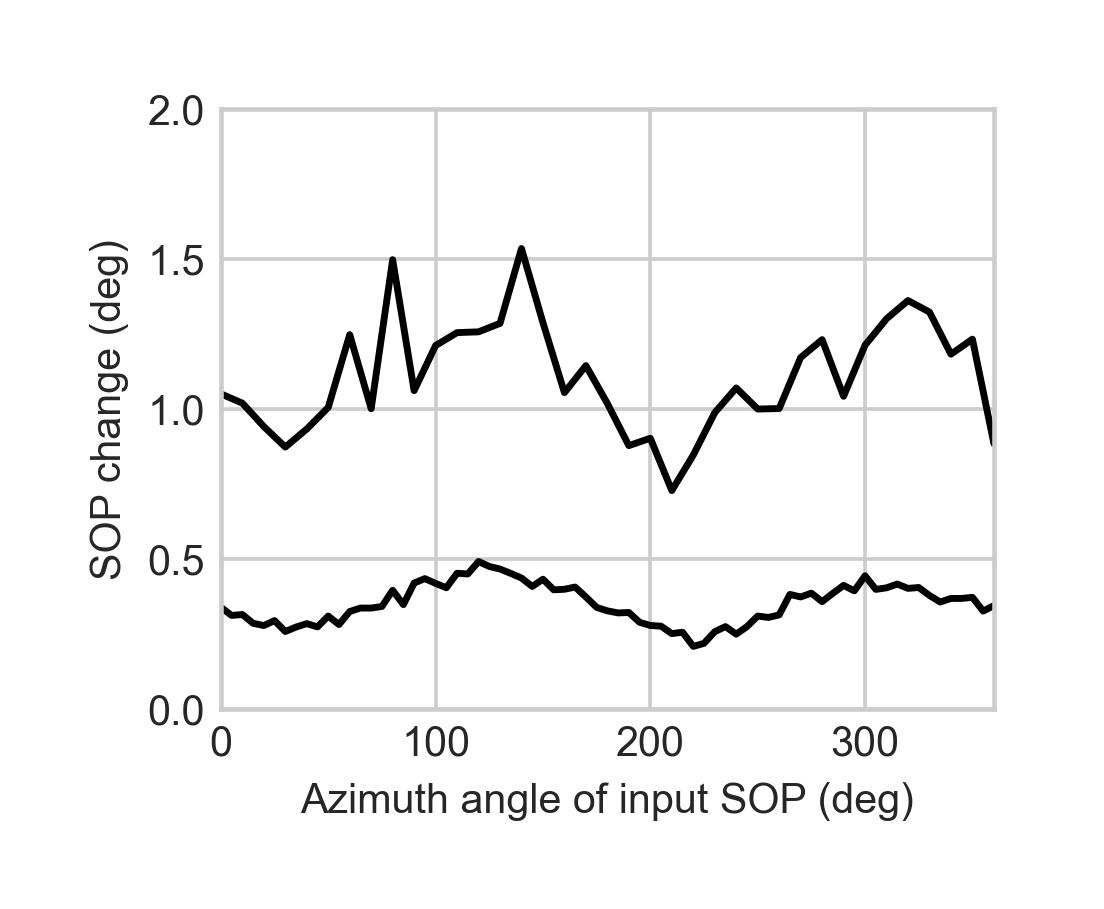
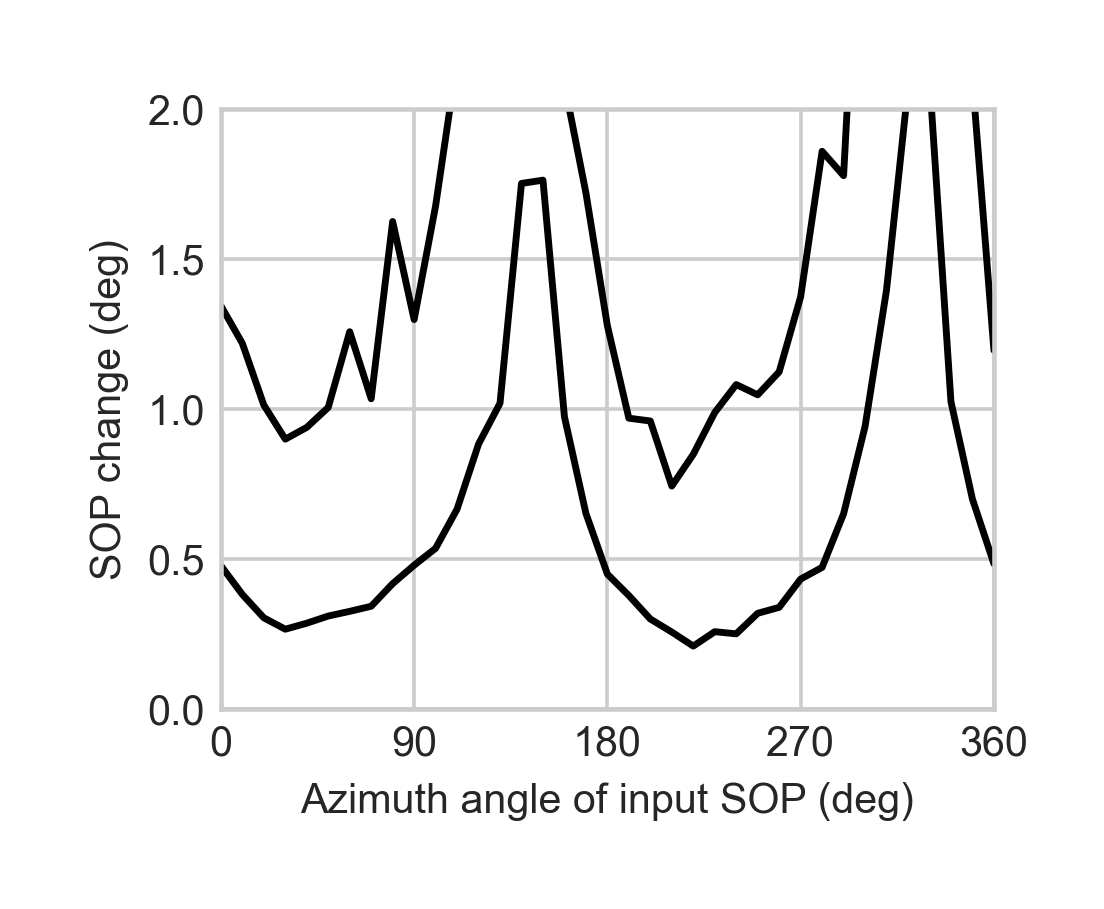
EDFA data

diff --git a/JournalPaper/Figure6_input_SOP_dependence2.py b/JournalPaper/Figure6_input_SOP_dependence2.py
@@ -12,6 +12,8 @@ from numpy.linalg import norm, eig, matrix_power
 import matplotlib.ticker
 from matplotlib.ticker import (MaxNLocator,
                                FormatStrFormatter, ScalarFormatter)
+from matplotlib.ticker import (AutoMinorLocator, MultipleLocator)
+
 from scipy.interpolate import interp1d
 import matplotlib.transforms
 import matplotlib.pylab as pl
@@ -258,9 +260,20 @@ if __name__ == '__main__':
     fig, ax = plt.subplots(figsize=(8.5 / 2.54, 7 / 2.54))
     plt.subplots_adjust(left=0.2, bottom=0.22)
 
+    # SOP change in chi, psi
+
+    fig2, ax2 = plt.subplots(2, figsize=(8 / 2.54, 7 / 2.54))
+    fig2.set_dpi(91.79)  # DPI of My office monitor
+    plt.subplots_adjust(left=0.27, bottom=0.22, right=0.96, top=0.81, wspace=0.4, hspace=0.0)
+
+    fig2_2, ax2_2 = plt.subplots(2, figsize=(8 / 2.54, 7 / 2.54))
+    fig2_2.set_dpi(91.79)  # DPI of My office monitor
+    plt.subplots_adjust(left=0.27, bottom=0.22, right=0.96, top=0.81, wspace=0.4, hspace=0.0)
+
     # fig, ax = plt.subplots(figsize=(6, 5))
-    ax2, fig2 = PS3('0')
-    fig3 = PS.PS5(0.5)
+    # ax2, fig2 = PS3('0')
+    opacity = 0.9
+    fig3 = PS.PS5(0.9)
 
     for mm in range(2):
         # Folder select
@@ -274,6 +287,8 @@ if __name__ == '__main__':
 
         try:
             file_list = sorted(file_list, key=lambda x: int(os.path.splitext(x)[0].split('_')[0][2:]))
+            file_list = file_list[::2] if mm == 1 else file_list
+
             # ang_SOP = arange(0, 361, 5)
             ang_SOP = np.array([int(os.path.splitext(x)[0].split('_')[0][2:]) for x in file_list])
 
@@ -292,24 +307,29 @@ if __name__ == '__main__':
         min_azi_V = np.ones(len(file_list))
         alpha = np.ones(len(file_list))
 
+        ############################################################
+        ## define a color and a color scale for draw poincare sphere
+
+
         # brg = matplotlib_to_plotly(pl.cm.brg, len(file_list))
         # colors = pl.cm.brg(np.linspace(0, 1, len(file_list)))
 
-        hsv = matplotlib_to_plotly(pl.cm.hsv, len(file_list))
+        # plotly style color palette prepared for each input SOPs from matplotlib
         colors_hsv = pl.cm.hsv(np.linspace(0, 1, len(file_list)))
+        # ployly style color scale converted from matplotlib for plotting color scale on the poincare sphere
+        hsv = matplotlib_to_plotly(pl.cm.hsv, len(file_list))
 
+        # color palette prepared for each input SOPs with plotly library
         colors_IceFire_tmp = px.colors.sample_colorscale("IceFire", [n / (len(file_list) - 1) for n in range(len(file_list))])
         colors_IceFire = cm_to_rgba_tuple(colors_IceFire_tmp)
 
-        print(colors_hsv)
-        print(colors_IceFire)
-        #print(brg)
+        ############################################################
+        ############################################################
 
         for nn in range(int(len(file_list))):
             fn2 = path_dir + "//" + file_list[nn]
             print(fn2)
             count = 0
-            cstm_color = ['b', 'g', 'r', 'c', 'm', 'y', 'k', 'w']
 
             #    fn2 = path_dir + "//10Hz_edited.txt"
             data = pd.read_table(fn2, delimiter=r"\s+")
@@ -318,6 +338,40 @@ if __name__ == '__main__':
             S1 = pd.to_numeric(data['S1'])
             S2 = pd.to_numeric(data['S2'])
             S3 = pd.to_numeric(data['S3'])
+
+            # ######################################################################################
+            # Plotting the Stokes points on the poincare sphere using PLOTLY
+
+            fig3.add_scatter3d(x=S1[::10], y=S2[::10], z=S3[::10], mode="markers",
+                               marker=dict(size=3, opacity=1,
+                                           color=rgb2hex(colors_hsv[nn] if mm==0 else colors_IceFire[nn])),
+                               name='F1')
+
+            colorbar_param = dict(lenmode='fraction', len=0.75, thickness=10, tickfont=dict(size=20),
+                                  tickvals=np.linspace(0, len(file_list), 5),
+                                  ticktext=['LHP', 'L45P', 'LVP', 'L135P', 'LHP'],
+                                  # title='Azimuth angle',
+                                  outlinewidth=1,
+                                  x=0.2 if mm == 0 else 0.1)
+            colorbar_trace = go.Scatter(x=[None], y=[None],
+                                        mode='markers',
+                                        marker=dict(
+                                            colorscale=hsv if mm == 0 else 'IceFire',
+                                            showscale=True,
+                                            cmin=0,
+                                            cmax=len(file_list),
+                                            colorbar=colorbar_param
+                                        ),
+                                        hoverinfo='none'
+                                        )
+            fig3.add_trace(colorbar_trace)
+            fig3['layout']['paper_bgcolor'] = 'rgba(0,0,0,0)'
+            fig3['layout']['plot_bgcolor'] = 'rgba(0,0,0,0)'
+            fig3.update_yaxes(showticklabels=False, showgrid=False, visible=False)
+            fig3.update_xaxes(showticklabels=False, showgrid=False, visible=False)
+
+            # ######################################################################################
+            # ######################################################################################
 
             Sn = np.ones((len(S0)))
 
@@ -337,20 +391,8 @@ if __name__ == '__main__':
             new_S3[0:nwindow] = new_S3[nwindow]
 
             SS = np.vstack((Sn, new_S1, new_S2, new_S3))
-
-            # SS = np.vstack((Sn[1000:], new_S1[1000:], new_S2[1000:], new_S3[1000:]))
             Out = Sv.from_matrix(SS.T)
-
-            # draw_stokes_points(fig2[0], Out, kind='line', color_line=cstm_color[nn % 8])
-
-            Out = basistonormal(Out)
-            # draw_stokes_points(fig3[0], Out, kind='line', color_line=cstm_color[nn % 8])
-            ax2.plot(S1, S2, S3, color='c', marker='o', markersize=4, alpha=1.0, linewidth=0, zorder=3)
-
-            fig3.add_scatter3d(x=S1[::10], y=S2[::10], z=S3[::10], mode="markers",
-                               marker=dict(size=3, opacity=1,
-                                           color=rgb2hex(colors_hsv[nn] if mm==0 else colors_IceFire[nn])),
-                               name='F1')
+            #Out = basistonormal(Out)
             azi_V = Out.parameters.azimuth()
             ellip_V = Out.parameters.ellipticity_angle()
             diff_azi_V[nn] = azi_V.max() - azi_V.min()
@@ -364,15 +406,9 @@ if __name__ == '__main__':
             min_azi_V[nn] = azi_V.min() / cos(ellip_V[0])
 
             alpha[nn] = sqrt(diff_azi_V[nn] ** 2 + diff_ellip_V[nn] ** 2)
-            # print(alpha[nn])
 
-            if alpha[nn] > 0.1:
-                print(fn2)
-                print(diff_azi_V[nn])
-                print(diff_ellip_V[nn])
-                print(cos(ellip_V[0]))
-
-            if nn == 0 or nn == 5 or nn == 9 or nn == 14:
+            # pick up 30deg, 120 deg
+            if nn == 3 or nn == 12:
                 fig4, ax4 = plt.subplots(4, figsize=(6, 5))
                 ax4[0].plot(time, S0)
                 # ax[0].set(xlim=(0, 0.5), ylim=(-1, 1))
@@ -386,40 +422,34 @@ if __name__ == '__main__':
                 ax4[3].set_ylabel("Stokes parameter")
                 ax4[0].set_title(file_list[nn])
 
-            '''
-            for nn in a:
+                ax_mm = ax2 if nn == 3 else ax2_2
+                if mm == 0:
+                    ax_mm_ylim0 = (azi_V.min, azi_V.max)
+                    ax_mm_ylim1 = (ellip_V.min, ellip_V.max)
+                else:
+                    ax_mm_ylim0 = (azi_V.min if azi_V.min < ax_mm_ylim0[0] else ax_mm_ylim0[0],
+                                   azi_V.max if azi_V.max > ax_mm_ylim0[1] else ax_mm_ylim0[1])
+                    ax_mm_ylim1 = (ellip_V.min if ellip_V.min < ax_mm_ylim1[0] else ax_mm_ylim1[0],
+                                   ellip_V.max if ellip_V.max > ax_mm_ylim1[1] else ax_mm_ylim1[1])
 
-                fn2 = path_dir + "//" + "9turns_" + str(nn) + "deg_Upper_edited.txt"
-                data = pd.read_table(fn2)
-                time = data['Time (ns)']
-                signal = data['Amplitude (dB)']
-                ax[count].plot(time, signal, lw='1', label="9turns_"+str(nn)+"deg")
-                ax[count].legend(loc="upper right")
-                ax[count].set(xlim=(124, 134), ylim=(-135, -120))
-                count = count+1
-            '''
-        colorbar_param = dict(lenmode='fraction', len=0.75, thickness=10,tickfont=dict(size=20),
-                              tickvals=np.linspace(0, len(file_list), 5),
-                              ticktext=['LHP', 'L45P', 'LVP', 'L135P', 'LHP'],
-                              # title='Azimuth angle',
-                              outlinewidth=1,
-                              x=0.2 if mm == 0 else 0)
-        colorbar_trace = go.Scatter(x=[None], y=[None],
-                                    mode='markers',
-                                    marker=dict(
-                                        colorscale=hsv if mm == 0 else 'IceFire',
-                                        showscale=True,
-                                        cmin=0,
-                                        cmax=len(file_list),
-                                        colorbar=colorbar_param
-                                    ),
-                                    hoverinfo='none'
-                                    )
-        fig3.add_trace(colorbar_trace)
-        fig3['layout']['paper_bgcolor'] = 'rgba(0,0,0,0)'
-        fig3['layout']['plot_bgcolor'] = 'rgba(0,0,0,0)'
-        fig3.update_yaxes(showticklabels=False, showgrid=False, visible=False)
-        fig3.update_xaxes(showticklabels=False, showgrid=False, visible=False)
+                label = 'Before pulling' if mm == 0 else 'After pulling'
+                ax_mm[0].plot(time, azi_V * 180 / pi, 'r' if mm == 0 else 'k', zorder=10 - nn, label=label)
+                ax_mm[0].set_xlabel("Time (s)")
+                ax_mm[0].set_ylabel(r'$\psi$' + ' (deg)')
+                ax_mm[0].set_ylim((azi_V.min() * 180 / pi * 0.999, azi_V.max() * 180 / pi * 1.001))
+                ax_mm[0].legend(bbox_to_anchor=(0, 1.4), loc='upper left', fancybox=False, ncol=2)
+                ax_mm[0].xaxis.set_major_locator(MultipleLocator(0.1))
+                ax_mm[0].yaxis.set_major_locator(MultipleLocator(2))
+                ax_mm[0].set_xticklabels([])
+                ax_mm[0].set(xlim=(0,0.5), ylim=())
+
+
+                ax_mm[1].plot(time, ellip_V * 180 / pi, 'r' if mm == 0 else 'k', zorder=10 - nn)
+                ax_mm[1].set_xlabel("Time (s)")
+                ax_mm[1].set_ylabel(r'$\chi$' + ' (deg)')
+                ax_mm[1].set_ylim((ellip_V.min() * 180 / pi * 0.90, ellip_V.max() * 180 / pi * 1.1))
+                ax_mm[1].xaxis.set_major_locator(MultipleLocator(0.1))
+                ax_mm[1].yaxis.set_major_locator(MultipleLocator(2))
 
         if os.path.splitext(file_list[0])[0].split('_')[0][2:] == 'Hz':
             ax.plot(freq, alpha * 180 / pi, 'k')
@@ -435,9 +465,16 @@ if __name__ == '__main__':
             ax.set_xlabel('Azimuth angle of input SOP (deg)')
             ax.set_ylabel('SOP change (deg)')
             ax.set(xlim=(0, 360), ylim=(0, 2))
+            ax.xaxis.set_major_locator(MultipleLocator(90))
 
     fig_name = 'Figure 6(b)' + plt_fmt
     fig.savefig(fig_name, dpi=plt_res)
+
+    fig2.align_ylabels()
+    fig2_name = 'Figure 6(c)' + plt_fmt
+    fig2.savefig(fig2_name, dpi=plt_res)
+
     fig3.show()
+
     plt.show()
 
